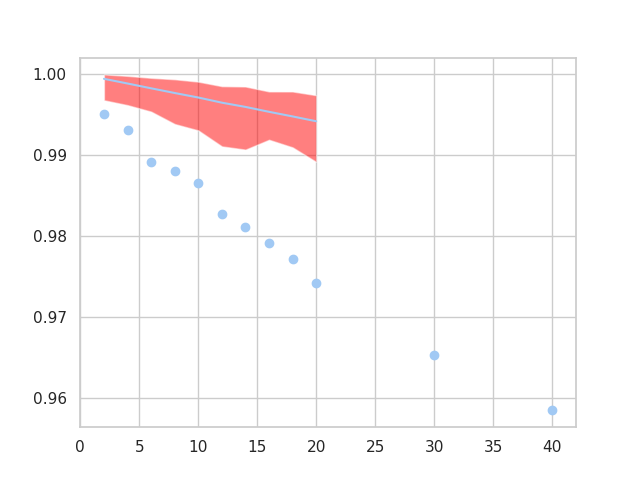
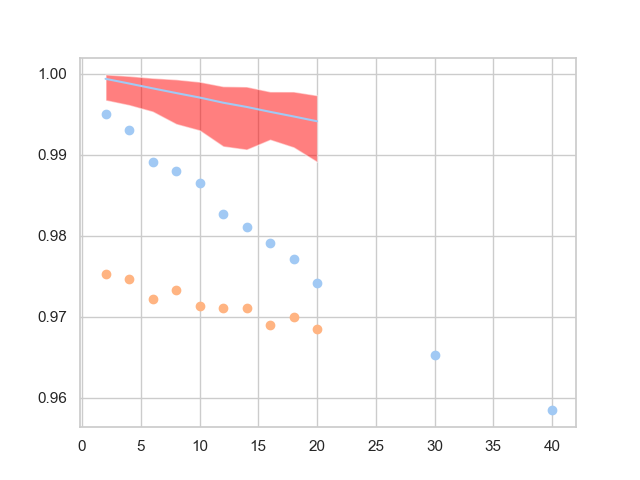
plot also ga

diff --git a/output/plot.py b/output/plot.py
@@ -21,10 +21,12 @@ fname_ga = r'results_ga.txt'
 fname_sa = r'results_sa_2.txt'
 
 colnames = ['i', 'dry_peat_vol', 'ndams', 'niter', 'days', 'day_week', 'month', 'day_month', 'time', 'yr' ]
-rename_cols = {'i':'dry_peat_vol', 'dry_peat_vol':'ndams', 'ndams':'niter', 'niter':'days', 'days':'day_week', 'day_week':'month', 'month':'day_month', 'day_month':'time', 'time':'yr' }
+rename_cols_sa = {'i':'dry_peat_vol', 'dry_peat_vol':'ndams', 'ndams':'niter', 'niter':'days', 'days':'day_week', 'day_week':'month', 'month':'day_month', 'day_month':'time', 'time':'yr' }
+colnames_ga = {'dry_peat_vol', 'ndams', 'niter', 'days', 'day_week', 'month', 'day_month', 'time', 'yr', 'blocks', 'a', 'b', 'c'}
+rename_cols_ga = {'day_month':'dry_peat_vol', 'niter':'ndams', 'c': 'niter', 'b':'days', 'blocks':'day_week', 'day_week':'month', 'days':'day_month', 'month':'time', 'ndams':'yr', 'a': 'b1', 'time':'b2', 'yr':'b3', 'dry_peat_vol':'b4'}
 
 mc_df = pd.read_csv(fname_mc, delim_whitespace=True, header=None, names=colnames)
-ga_df = pd.read_csv(fname_ga, delim_whitespace=True, header=None, names=colnames)
+ga_df = pd.read_csv(fname_ga, delim_whitespace=True, header=None, names=colnames_ga)
 sa_df = pd.read_csv(fname_sa, delim_whitespace=True, header=None, names=colnames)
 
 """
@@ -40,8 +42,11 @@ mean_mc = [mc_df[mc_df.ndams == i]['dry_peat_vol'].mean()/dry_peat_vol_no_dams f
 max_mc = [mc_df[mc_df.ndams == i]['dry_peat_vol'].max()/dry_peat_vol_no_dams for i in number_dams]
 min_mc = [mc_df[mc_df.ndams == i]['dry_peat_vol'].min()/dry_peat_vol_no_dams for i in number_dams]
 
-sa_df = sa_df.rename(columns=rename_cols)
+sa_df = sa_df.rename(columns=rename_cols_sa)
 sa_df.dry_peat_vol = sa_df.dry_peat_vol/dry_peat_vol_no_dams
+
+ga_df = ga_df.rename(columns=rename_cols_ga)
+ga_df.dry_peat_vol = ga_df.dry_peat_vol/dry_peat_vol_no_dams
 
 
 """
@@ -54,6 +59,7 @@ ax.fill_between(number_dams, max_mc, min_mc, facecolor='red', alpha=0.5 )
 
 
 ax.scatter(x=sa_df.ndams.to_numpy(), y=sa_df.dry_peat_vol.to_numpy())
+ax.scatter(x=ga_df.ndams.to_numpy(), y=ga_df.dry_peat_vol.to_numpy())
 
 fname_fig = r'results_plot.png'
 plt.savefig(fname_fig)
